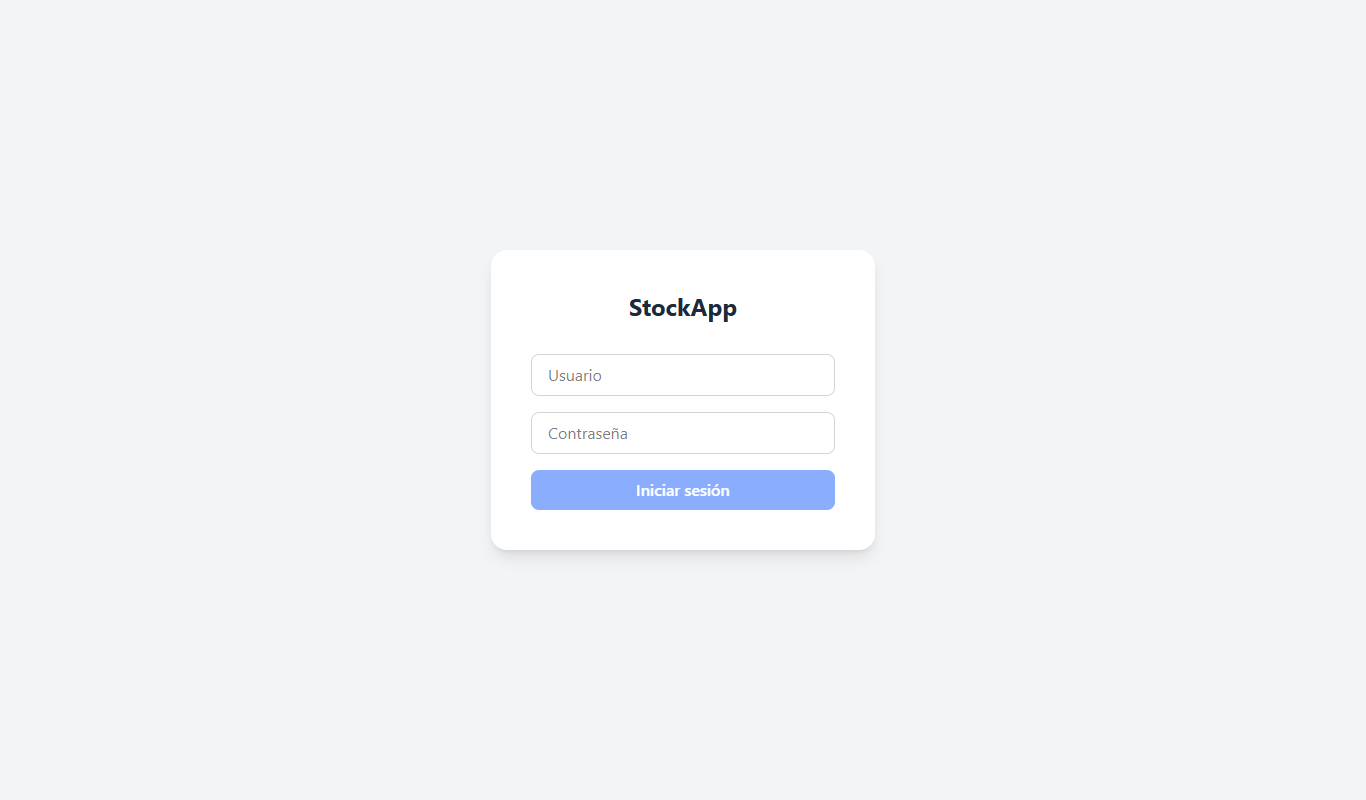
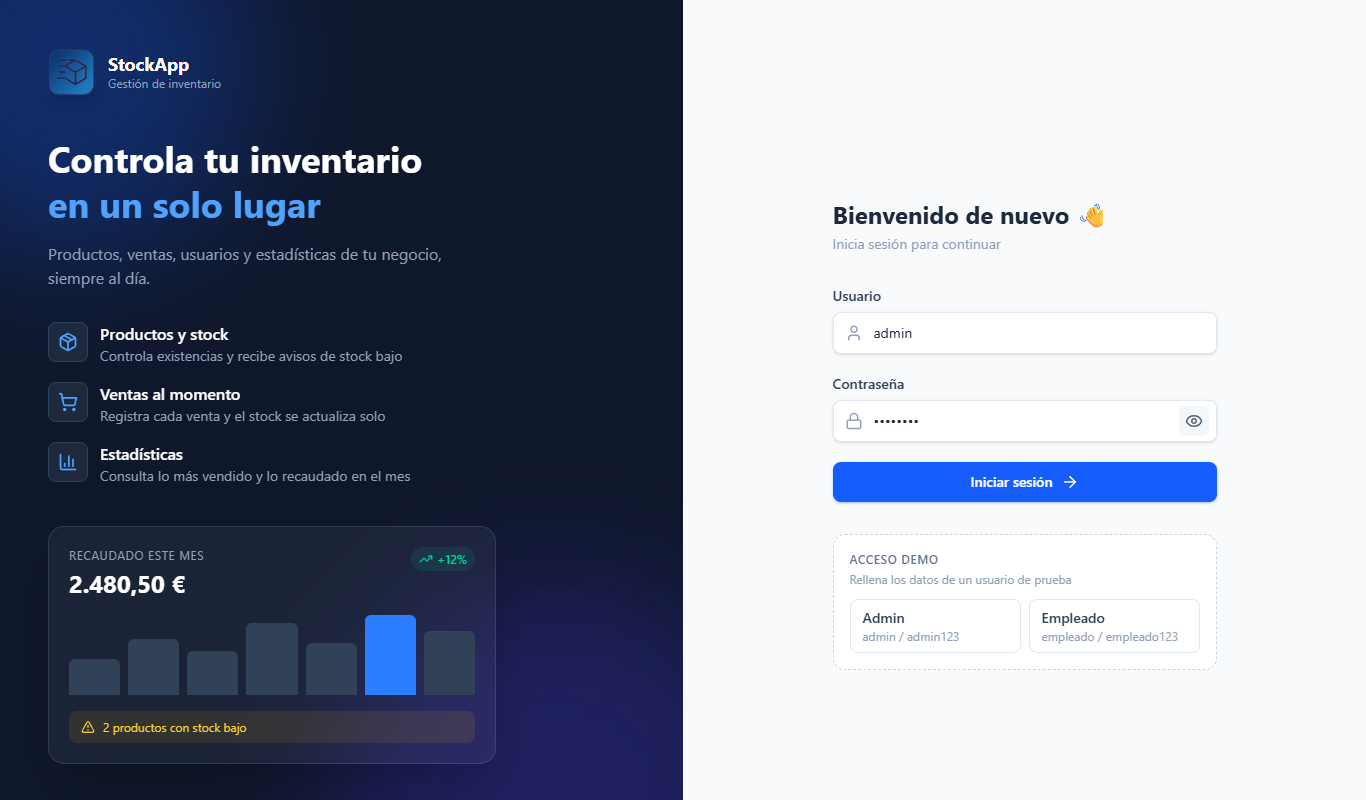
Rediseño de la página de login
- Pantalla dividida: panel de presentación con ventajas y vista previa de estadísticas
- Campos con iconos, mostrar/ocultar contraseña y mensaje de error más visible
- Spinner al iniciar sesión y botones de acceso demo
- Diseño adaptado a móvil y animación de entrada

diff --git a/frontend/src/pages/LoginPage.tsx b/frontend/src/pages/LoginPage.tsx
@@ -1,18 +1,40 @@
 import { useState } from "react";
 import { useNavigate } from "react-router-dom";
+import {
+  User, Lock, Eye, EyeOff, CircleAlert, LoaderCircle, ArrowRight,
+  Package, ShoppingCart, ChartColumn, TrendingUp, TriangleAlert,
+} from "lucide-react";
 import api from "../services/api";
 import { useAuthStore } from "../store/authStore";
+
+const VENTAJAS = [
+  { icono: Package, titulo: "Productos y stock", texto: "Controla existencias y recibe avisos de stock bajo" },
+  { icono: ShoppingCart, titulo: "Ventas al momento", texto: "Registra cada venta y el stock se actualiza solo" },
+  { icono: ChartColumn, titulo: "Estadísticas", texto: "Consulta lo más vendido y lo recaudado en el mes" },
+];
+
+// Usuarios que crea DatosDemo.java en una base de datos vacía
+const USUARIOS_DEMO = [
+  { etiqueta: "Admin", nombre: "admin", password: "admin123" },
+  { etiqueta: "Empleado", nombre: "empleado", password: "empleado123" },
+];
+
+// Alturas (en %) de la mini gráfica decorativa
+const BARRAS = [45, 70, 55, 90, 65, 100, 80];
 
 export default function LoginPage() {
   const [nombre, setNombre] = useState("");
   const [password, setPassword] = useState("");
+  const [verPassword, setVerPassword] = useState(false);
   const [error, setError] = useState("");
   const [cargando, setCargando] = useState(false);
 
   const setUsuario = useAuthStore((state) => state.setUsuario);
   const navigate = useNavigate();
 
-  const handleLogin = async () => {
+  const handleLogin = async (e: React.FormEvent) => {
+    e.preventDefault();
+    if (!nombre || !password) return;
     setCargando(true);
     setError("");
 
@@ -25,52 +47,181 @@ export default function LoginPage() {
         setUsuario(response.data);
         navigate("/dashboard");
       } else {
-        setError("Credenciales incorrectas");
+        setError("Usuario o contraseña incorrectos");
       }
     } catch {
-      setError("Credenciales incorrectas");
+      setError("Usuario o contraseña incorrectos");
     } finally {
       setCargando(false);
     }
   };
 
+  const rellenarDemo = (demo: (typeof USUARIOS_DEMO)[number]) => {
+    setNombre(demo.nombre);
+    setPassword(demo.password);
+    setError("");
+  };
+
   return (
-    <div className="min-h-screen bg-gray-100 flex items-center justify-center">
-      <div className="bg-white rounded-2xl shadow-lg p-10 w-full max-w-sm">
-        <h1 className="text-2xl font-bold text-center text-gray-800 mb-8">
-          StockApp
-        </h1>
+    <div className="min-h-screen flex bg-slate-50">
+      {/* Panel izquierdo: presentación de la app */}
+      <aside className="hidden lg:flex lg:w-1/2 relative overflow-hidden bg-slate-900 text-white flex-col justify-between gap-10 p-12">
+        <div className="absolute -top-32 -left-32 w-96 h-96 rounded-full bg-blue-600/30 blur-3xl" />
+        <div className="absolute -bottom-40 -right-24 w-[28rem] h-[28rem] rounded-full bg-indigo-600/25 blur-3xl" />
 
-        <div className="flex flex-col gap-4">
-          <input
-            type="text"
-            placeholder="Usuario"
-            value={nombre}
-            onChange={(e) => setNombre(e.target.value)}
-            className="border border-gray-300 rounded-lg px-4 py-2 focus:outline-none focus:ring-2 focus:ring-blue-500"
-          />
-          <input
-            type="password"
-            placeholder="Contraseña"
-            value={password}
-            onChange={(e) => setPassword(e.target.value)}
-            onKeyDown={(e) => e.key === "Enter" && handleLogin()}
-            className="border border-gray-300 rounded-lg px-4 py-2 focus:outline-none focus:ring-2 focus:ring-blue-500"
-          />
-
-          {error && (
-            <p className="text-red-500 text-sm text-center">{error}</p>
-          )}
-
-          <button
-            onClick={handleLogin}
-            disabled={!nombre || !password || cargando}
-            className="bg-blue-600 text-white py-2 rounded-lg font-semibold hover:bg-blue-700 disabled:opacity-50 disabled:cursor-not-allowed transition-colors"
-          >
-            {cargando ? "Entrando..." : "Iniciar sesión"}
-          </button>
+        <div className="relative flex items-center gap-3">
+          <img src="/Logo.png" alt="Logo" className="w-12 h-12 rounded-xl shadow-lg" />
+          <div>
+            <h1 className="text-lg font-bold leading-tight">StockApp</h1>
+            <p className="text-xs text-slate-400">Gestión de inventario</p>
+          </div>
         </div>
-      </div>
+
+        <div className="relative max-w-md aparecer">
+          <h2 className="text-4xl font-bold leading-tight">
+            Controla tu inventario <span className="block text-blue-400">en un solo lugar</span>
+          </h2>
+          <p className="mt-4 text-slate-400">
+            Productos, ventas, usuarios y estadísticas de tu negocio, siempre al día.
+          </p>
+
+          <ul className="mt-8 flex flex-col gap-4">
+            {VENTAJAS.map(({ icono: Icono, titulo, texto }) => (
+              <li key={titulo} className="flex items-start gap-3">
+                <span className="flex items-center justify-center w-10 h-10 rounded-lg bg-slate-800 border border-slate-700 text-blue-400 shrink-0">
+                  <Icono size={20} />
+                </span>
+                <div>
+                  <p className="font-medium">{titulo}</p>
+                  <p className="text-sm text-slate-400">{texto}</p>
+                </div>
+              </li>
+            ))}
+          </ul>
+
+          {/* Vista previa decorativa de las estadísticas */}
+          <div className="mt-10 rounded-2xl bg-white/5 border border-white/10 backdrop-blur p-5 shadow-2xl">
+            <div className="flex items-start justify-between">
+              <div>
+                <p className="text-xs uppercase tracking-wider text-slate-400">Recaudado este mes</p>
+                <p className="text-2xl font-bold mt-1">2.480,50 €</p>
+              </div>
+              <span className="flex items-center gap-1 text-xs font-medium text-emerald-400 bg-emerald-400/10 rounded-full px-2 py-1">
+                <TrendingUp size={14} /> +12%
+              </span>
+            </div>
+            <div className="mt-4 flex items-end gap-2 h-20">
+              {BARRAS.map((altura, i) => (
+                <div
+                  key={i}
+                  style={{ height: `${altura}%` }}
+                  className={`flex-1 rounded-t-md ${i === BARRAS.length - 2 ? "bg-blue-500" : "bg-slate-700"}`}
+                />
+              ))}
+            </div>
+            <div className="mt-4 flex items-center gap-2 text-xs text-amber-300 bg-amber-400/10 rounded-lg px-3 py-2">
+              <TriangleAlert size={14} /> 2 productos con stock bajo
+            </div>
+          </div>
+        </div>
+
+        <p className="relative text-xs text-slate-500">© 2026 StockApp · Proyecto TFG DAM</p>
+      </aside>
+
+      {/* Panel derecho: formulario */}
+      <main className="flex-1 flex items-center justify-center p-6">
+        <div className="w-full max-w-sm aparecer">
+          <div className="flex lg:hidden items-center gap-3 mb-10">
+            <img src="/Logo.png" alt="Logo" className="w-11 h-11 rounded-xl shadow" />
+            <div>
+              <h1 className="text-lg font-bold text-slate-800 leading-tight">StockApp</h1>
+              <p className="text-xs text-slate-400">Gestión de inventario</p>
+            </div>
+          </div>
+
+          <h2 className="text-2xl font-bold text-slate-800">Bienvenido de nuevo 👋</h2>
+          <p className="text-sm text-slate-400 mt-1 mb-8">Inicia sesión para continuar</p>
+
+          <form onSubmit={handleLogin} className="flex flex-col gap-5">
+            <div>
+              <label htmlFor="usuario" className="block text-sm font-medium text-slate-700 mb-1.5">Usuario</label>
+              <div className="relative">
+                <User size={18} className="absolute left-3 top-1/2 -translate-y-1/2 text-slate-400" />
+                <input
+                  id="usuario"
+                  type="text"
+                  placeholder="Usuario"
+                  autoComplete="username"
+                  autoFocus
+                  value={nombre}
+                  onChange={(e) => setNombre(e.target.value)}
+                  className="w-full bg-white border border-slate-200 rounded-lg pl-10 pr-4 py-2.5 text-sm text-slate-800 placeholder:text-slate-400 shadow-sm focus:outline-none focus:ring-2 focus:ring-blue-500 focus:border-blue-500 transition"
+                />
+              </div>
+            </div>
+
+            <div>
+              <label htmlFor="password" className="block text-sm font-medium text-slate-700 mb-1.5">Contraseña</label>
+              <div className="relative">
+                <Lock size={18} className="absolute left-3 top-1/2 -translate-y-1/2 text-slate-400" />
+                <input
+                  id="password"
+                  type={verPassword ? "text" : "password"}
+                  placeholder="Contraseña"
+                  autoComplete="current-password"
+                  value={password}
+                  onChange={(e) => setPassword(e.target.value)}
+                  className="w-full bg-white border border-slate-200 rounded-lg pl-10 pr-11 py-2.5 text-sm text-slate-800 placeholder:text-slate-400 shadow-sm focus:outline-none focus:ring-2 focus:ring-blue-500 focus:border-blue-500 transition"
+                />
+                <button
+                  type="button"
+                  onClick={() => setVerPassword((v) => !v)}
+                  aria-label={verPassword ? "Ocultar contraseña" : "Mostrar contraseña"}
+                  className="absolute right-2 top-1/2 -translate-y-1/2 p-1.5 rounded-md text-slate-400 hover:text-slate-600 hover:bg-slate-100 transition-colors"
+                >
+                  {verPassword ? <EyeOff size={18} /> : <Eye size={18} />}
+                </button>
+              </div>
+            </div>
+
+            {error && (
+              <div className="flex items-center gap-2 text-sm text-red-600 bg-red-50 border border-red-200 rounded-lg px-3 py-2.5">
+                <CircleAlert size={18} className="shrink-0" /> {error}
+              </div>
+            )}
+
+            <button
+              type="submit"
+              disabled={!nombre || !password || cargando}
+              className="flex items-center justify-center gap-2 bg-blue-600 hover:bg-blue-700 text-white py-2.5 rounded-lg text-sm font-semibold shadow-sm shadow-blue-600/30 disabled:opacity-50 disabled:cursor-not-allowed transition-colors"
+            >
+              {cargando ? (
+                <><LoaderCircle size={18} className="animate-spin" /> Entrando...</>
+              ) : (
+                <>Iniciar sesión <ArrowRight size={18} /></>
+              )}
+            </button>
+          </form>
+
+          <div className="mt-8 rounded-xl border border-dashed border-slate-300 bg-white p-4">
+            <p className="text-xs font-medium text-slate-500 uppercase tracking-wider">Acceso demo</p>
+            <p className="text-xs text-slate-400 mt-1 mb-3">Rellena los datos de un usuario de prueba</p>
+            <div className="grid grid-cols-2 gap-2">
+              {USUARIOS_DEMO.map((demo) => (
+                <button
+                  key={demo.nombre}
+                  type="button"
+                  onClick={() => rellenarDemo(demo)}
+                  className="text-left rounded-lg border border-slate-200 px-3 py-2 hover:border-blue-400 hover:bg-blue-50 transition-colors"
+                >
+                  <p className="text-sm font-medium text-slate-700">{demo.etiqueta}</p>
+                  <p className="text-xs text-slate-400">{demo.nombre} / {demo.password}</p>
+                </button>
+              ))}
+            </div>
+          </div>
+        </div>
+      </main>
     </div>
   );
 }

diff --git a/frontend/src/App.css b/frontend/src/App.css
@@ -1,1 +1,21 @@
 @import "tailwindcss";
+
+/* Animación de entrada suave (página de login) */
+@keyframes aparecer {
+  from { opacity: 0; transform: translateY(12px); }
+  to { opacity: 1; transform: translateY(0); }
+}
+
+.aparecer {
+  animation: aparecer 0.5s ease-out both;
+}
+
+/* Oculta el botón de ver contraseña propio de Edge (el login ya tiene el suyo) */
+input::-ms-reveal,
+input::-ms-clear {
+  display: none;
+}
+
+@media (prefers-reduced-motion: reduce) {
+  .aparecer { animation: none; }
+}
